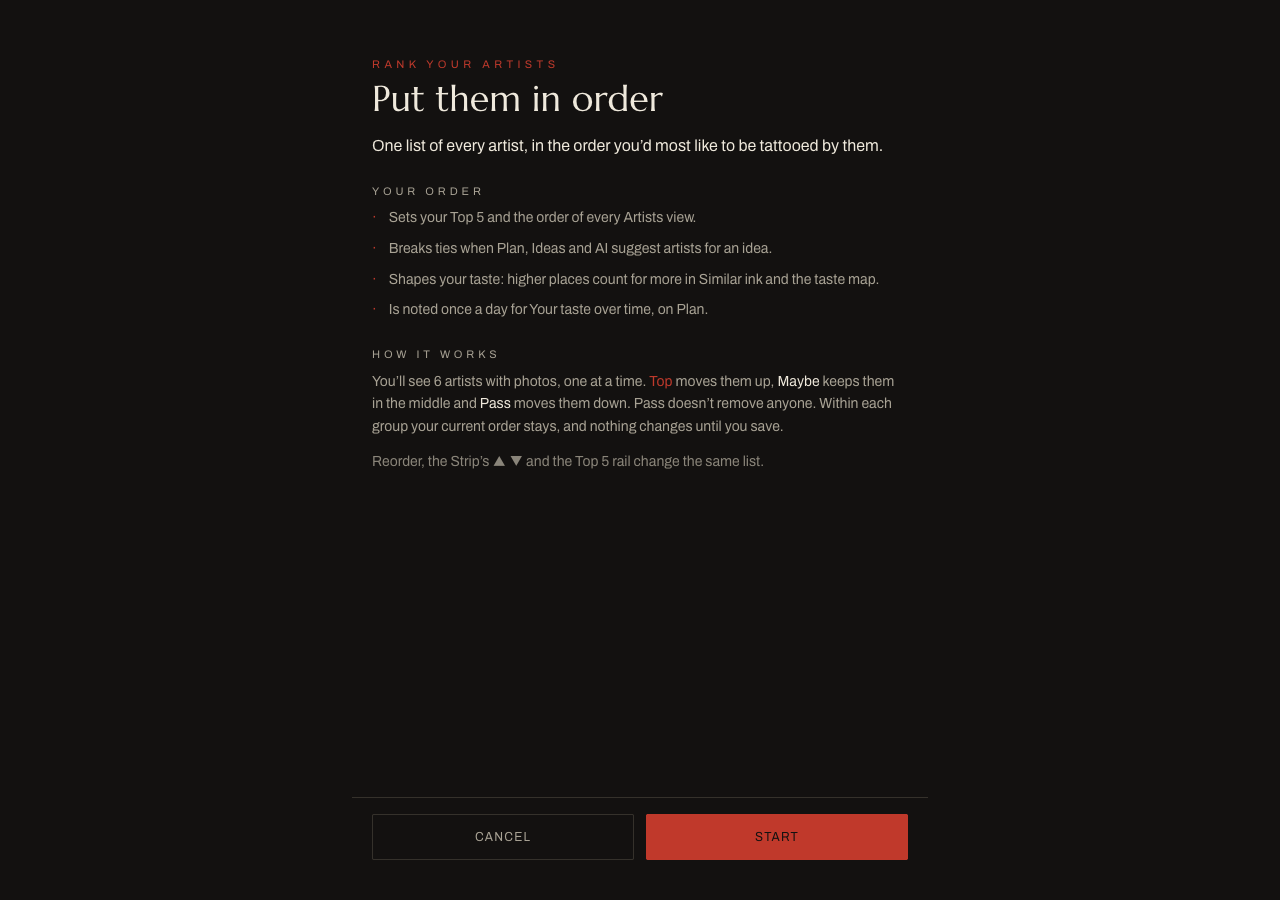
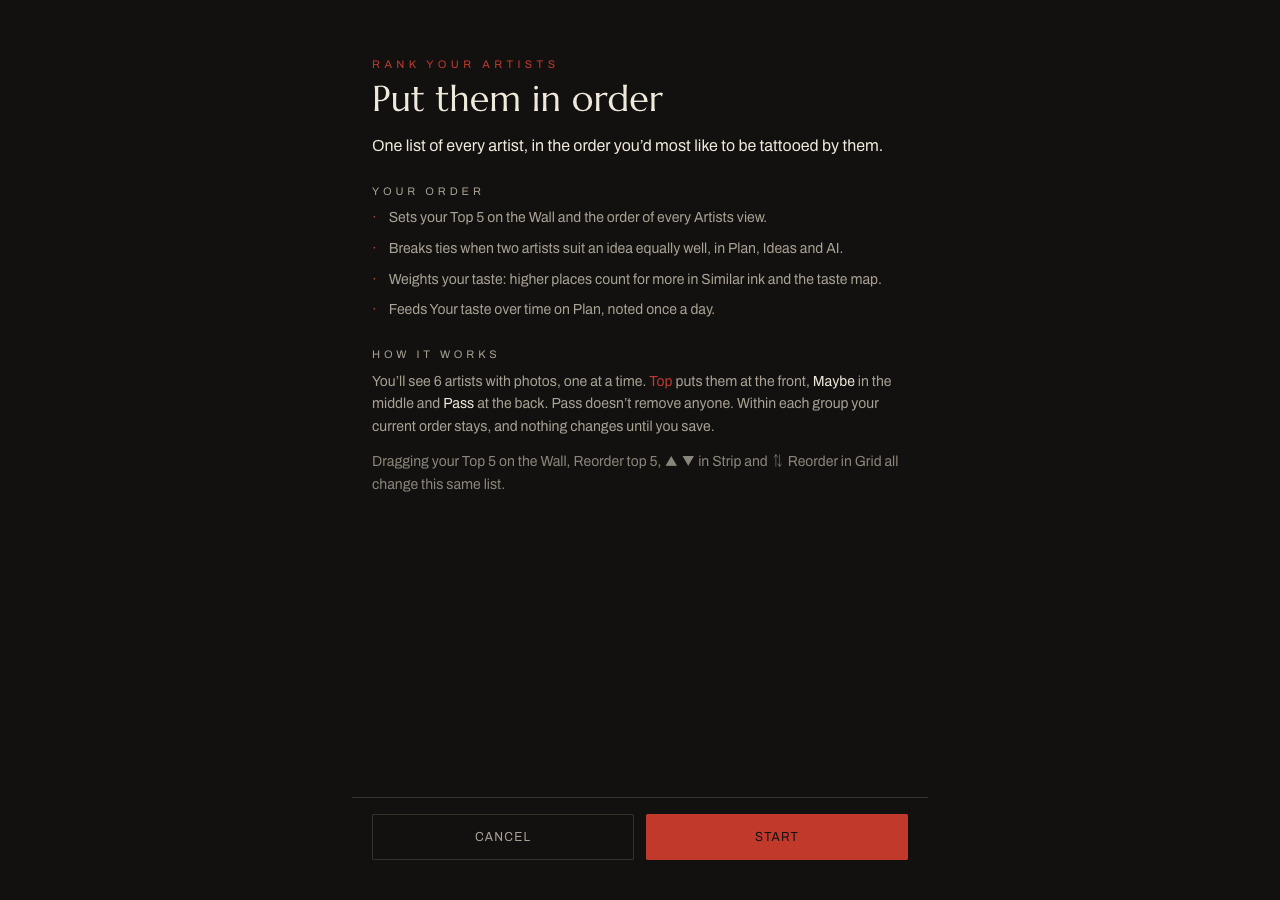
fix(rank): review triage for the ranking intro (#220 F)
agy, fixed: active wording for every "Your order" line; on-screen names
instead of "the Top 5 rail"; say photo-less artists keep their place;
↑/↓ in the new top 5 so direction isn't colour-only.
agy, rejected: remember the intro after the first Start (owner's call;
ranking is rare); "updates whenever your order shifts" (it is daily).
codex, fixed: group labels claimed movement that may not happen, now
"to the front / in the middle / to the back"; Start focus test now
focuses Start first and fails without the refocus.
codex, rejected: sync removing a photo mid-swipe (rare race, queue was
already live); artists with no stored rank (new artists get one);
"no change" beside a renumbered gap (preview is about place, and every
rank tool renumbers 1..N).

Changed region(s): [[0.3125, 0.2178, 0.6875, 0.3733], [0.2812, 0.4044, 0.6875, 0.56]]

diff --git a/src/components/RankingMode.jsx b/src/components/RankingMode.jsx
@@ -44,7 +44,7 @@ function NewTopFive({ decisions, artists }) {
               <span className="font-display text-lg text-cream w-8 shrink-0">#{a.rank}</span>
               <span className="font-body text-sm text-cream flex-1 min-w-0 truncate">{a.name || `@${a.handle}`}</span>
               <span className={`font-mono text-xs shrink-0 ${was === a.rank ? 'text-cream-muted/70' : was > a.rank ? 'text-accent' : 'text-cream-muted'}`}>
-                {was === a.rank ? 'no change' : `was #${was}`}
+                {was === a.rank ? 'no change' : `${was > a.rank ? '↑' : '↓'} from #${was}`}
               </span>
             </li>
           )
@@ -56,12 +56,12 @@ function NewTopFive({ decisions, artists }) {
 
 // What the order is for, said once before the first card (#220 F: "not quite
 // sure what I'm ranking here and what it affects").
-function IntroScreen({ count, onStart, onCancel }) {
+function IntroScreen({ count, without, onStart, onCancel }) {
   const effects = [
-    'Sets your Top 5 and the order of every Artists view.',
-    'Breaks ties when Plan, Ideas and AI suggest artists for an idea.',
-    'Shapes your taste: higher places count for more in Similar ink and the taste map.',
-    'Is noted once a day for Your taste over time, on Plan.',
+    'Sets your Top 5 on the Wall and the order of every Artists view.',
+    'Breaks ties when two artists suit an idea equally well, in Plan, Ideas and AI.',
+    'Weights your taste: higher places count for more in Similar ink and the taste map.',
+    'Feeds Your taste over time on Plan, noted once a day.',
   ]
   return (
     <div className="flex-1 min-h-0 flex flex-col">
@@ -85,11 +85,12 @@ function IntroScreen({ count, onStart, onCancel }) {
         <p className="font-mono text-[0.6875rem] tracking-[0.35em] uppercase text-cream-muted mb-2">How it works</p>
         <p className="font-body text-sm text-cream-muted leading-relaxed mb-3">
           You&rsquo;ll see {count} {count === 1 ? 'artist' : 'artists'} with photos, one at a time.
-          {' '}<span className="text-accent">Top</span> moves them up, <span className="text-cream">Maybe</span> keeps them in the middle and <span className="text-cream">Pass</span> moves them down.
+          {without > 0 && <> {without === 1 ? 'The 1 artist' : `The ${without} artists`} without photos {without === 1 ? 'keeps their' : 'keep their'} place.</>}
+          {' '}<span className="text-accent">Top</span> puts them at the front, <span className="text-cream">Maybe</span> in the middle and <span className="text-cream">Pass</span> at the back.
           {' '}Pass doesn&rsquo;t remove anyone. Within each group your current order stays, and nothing changes until you save.
         </p>
         <p className="font-body text-sm text-cream-muted/80 leading-relaxed">
-          Reorder, the Strip&rsquo;s ▲ ▼ and the Top 5 rail change the same list.
+          Dragging your Top 5 on the Wall, Reorder top 5, ▲ ▼ in Strip and ⇅ Reorder in Grid all change this same list.
         </p>
       </div>
 
@@ -146,9 +147,9 @@ function SummaryScreen({ decisions, artists, onApply, onDiscard }) {
 
         <NewTopFive decisions={decisions} artists={artists} />
 
-        <GroupSection label="Top · moved up" items={groups.top} accent="text-accent" />
-        <GroupSection label="Maybe · kept in the middle" items={groups.maybe} accent="text-cream-muted" />
-        <GroupSection label="Pass · moved down" items={groups.pass} accent="text-cream-muted/70" />
+        <GroupSection label="Top · to the front" items={groups.top} accent="text-accent" />
+        <GroupSection label="Maybe · in the middle" items={groups.maybe} accent="text-cream-muted" />
+        <GroupSection label="Pass · to the back" items={groups.pass} accent="text-cream-muted/70" />
 
         <p className="font-body text-sm text-cream-muted leading-relaxed">
           Within each group your current order stays. Nobody is removed, and nothing changes until you save.
@@ -456,7 +457,7 @@ export default function RankingMode({ artists, onClose, onApplyRanking }) {
       className="fixed inset-0 z-[60] bg-ink-black flex flex-col animate-fade-in outline-hidden focus-visible:ring-2 focus-visible:ring-inset focus-visible:ring-accent"
     >
       {!started ? (
-        <IntroScreen count={queue.length} onStart={() => setStarted(true)} onCancel={onClose} />
+        <IntroScreen count={queue.length} without={artists.length - queue.length} onStart={() => setStarted(true)} onCancel={onClose} />
       ) : showSummary ? (
         <SummaryScreen
           decisions={decisions}

diff --git a/src/test/RankingMode.test.jsx b/src/test/RankingMode.test.jsx
@@ -58,6 +58,16 @@ describe('RankingMode — intro', () => {
     expect(screen.queryByText('1 / 2')).not.toBeInTheDocument()
   })
 
+  it('says artists without photos keep their place, only when there are some', () => {
+    renderMode([artist, second, { ...second, id: 'bare', handle: 'bare', images: [], rank: 3 }], undefined, { start: false })
+    expect(screen.getByRole('dialog')).toHaveTextContent(/the 1 artist without photos keeps their place/i)
+  })
+
+  it('does not mention photo-less artists when everyone has photos', () => {
+    renderMode(undefined, undefined, { start: false })
+    expect(screen.getByRole('dialog')).not.toHaveTextContent(/without photos/i)
+  })
+
   it('says the other ways to reorder change the same list', () => {
     renderMode(undefined, undefined, { start: false })
     expect(screen.getByRole('dialog')).toHaveTextContent(/same list/i)
@@ -82,8 +92,12 @@ describe('RankingMode — intro', () => {
     expect(onApplyRanking).not.toHaveBeenCalled()
   })
 
-  it('keeps focus on the dialog after Start', () => {
-    renderMode()
+  it('keeps focus on the dialog after Start, which then leaves the page', () => {
+    renderMode(undefined, undefined, { start: false })
+    const start = screen.getByRole('button', { name: 'Start' })
+    start.focus()
+    fireEvent.click(start)
+    expect(document.activeElement).not.toBe(document.body)
     expect(screen.getByRole('dialog', { name: 'Rank artists' })).toHaveFocus()
   })
 })
@@ -95,8 +109,8 @@ describe('RankingMode — summary', () => {
       const { onApplyRanking, onClose } = renderMode()
       decideAll(['ArrowLeft', 'ArrowRight'])
       const dialog = screen.getByRole('dialog', { name: 'Ranking complete' })
-      expect(dialog).toHaveTextContent(/top · moved up/i)
-      expect(dialog).toHaveTextContent(/pass · moved down/i)
+      expect(dialog).toHaveTextContent(/top · to the front/i)
+      expect(dialog).toHaveTextContent(/pass · to the back/i)
       expect(dialog).not.toHaveTextContent(/tier/i)
       expect(dialog).toHaveTextContent(/nothing changes until you save/i)
       fireEvent.click(screen.getByRole('button', { name: 'Save this order' }))
@@ -115,9 +129,9 @@ describe('RankingMode — summary', () => {
       const preview = screen.getByRole('list', { name: 'Your new top 5' })
       const rows = within(preview).getAllByRole('listitem')
       expect(rows[0]).toHaveTextContent('@tolgatemirlenk.ink')
-      expect(rows[0]).toHaveTextContent(/was #2/)
+      expect(rows[0]).toHaveTextContent('↑ from #2')
       expect(rows[1]).toHaveTextContent('Zoia')
-      expect(rows[1]).toHaveTextContent(/was #1/)
+      expect(rows[1]).toHaveTextContent('↓ from #1')
     } finally {
       vi.useRealTimers()
     }

diff --git a/src/data/helpTopics.js b/src/data/helpTopics.js
@@ -92,7 +92,7 @@ export const HELP_GROUPS = [
         steps: [
           'Rank is one list of every artist. It sets your Top 5 and the Artists order, breaks ties in artist suggestions, and weights your taste.',
           'On the Wall, drag a rank number in the Top 5, or tap Reorder top 5 for ▲ and ▼ on everyone.',
-          'Tools → Rank shows artists one at a time: Top moves them up, Pass moves them down. Nobody is removed.',
+          'Tools → Rank shows artists one at a time: Top puts them at the front, Pass at the back. Nobody is removed.',
           'All of these change the same list.',
         ],
         image: 'ranking-intro.png',

diff --git a/docs/03-gallery-and-ranking.md b/docs/03-gallery-and-ranking.md
@@ -144,7 +144,7 @@ The Artists page keeps its own ranking tools for when you're already there organ
 3. **Swipe-compare** — tap **Tools → Rank** (top-right of the Artists page). A short intro says
    what the order affects, then **Start** shows artists with photos one at a time, with a
    scrollable row of all their reference images to browse before you decide.
-   **Top** moves an artist up, **Maybe** keeps them in the middle, **Pass** moves them down.
+   **Top** puts an artist at the front, **Maybe** in the middle, **Pass** at the back.
    Pass doesn't remove anyone, and within each group your current order stays. Artists with
    no photos aren't shown and keep their place. Made a mistake? **Undo** reverses your last
    decision. At the end you see your new top 5, each beside the place they held before, and
